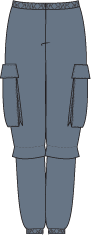
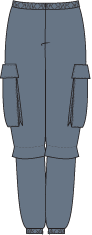
P2: bless github and it's capitalization snobism

diff --git a/Projects/Spectra/js/script.js b/Projects/Spectra/js/script.js
@@ -117,7 +117,7 @@ function setup() {
   background(defaultParameters.bg.r, defaultParameters.bg.g, defaultParameters.bg.b)
 
   currentState = new InTheChangingRoom(); //can be Intro, IntroDialog, TransitionInsideStore, IntroEmployee, ChoosingSection, InTheChangingRoom
-  currentChangingRoom = new FemaleChangingRoom(); //Can be FemaleChangingRoom, MaleChangingRoom or ChangingRoom (with no avatar or appropriate clothes assigned)
+  currentChangingRoom = new MaleChangingRoom(); //Can be FemaleChangingRoom, MaleChangingRoom or ChangingRoom (with no avatar or appropriate clothes assigned)
 }
 
 

diff --git a/Projects/Spectra/js/ChangingRoom.js b/Projects/Spectra/js/ChangingRoom.js
@@ -33,6 +33,7 @@ class ChangingRoom {
     this.setBackground();
     this.displayAvatar();
     this.displayClothes();
+    console.log(femaleAvatarImg.width)
   }
 
   setBackground() {
@@ -52,7 +53,7 @@ class ChangingRoom {
   displayClothes() {
     push();
     imageMode(CENTER);
-    image(utilityPants, width / 2, height / 3 * 2);
+    image(utilityPants, width / 2 + 1, height / 3 * 2 - 25);
     pop();
   }
 
